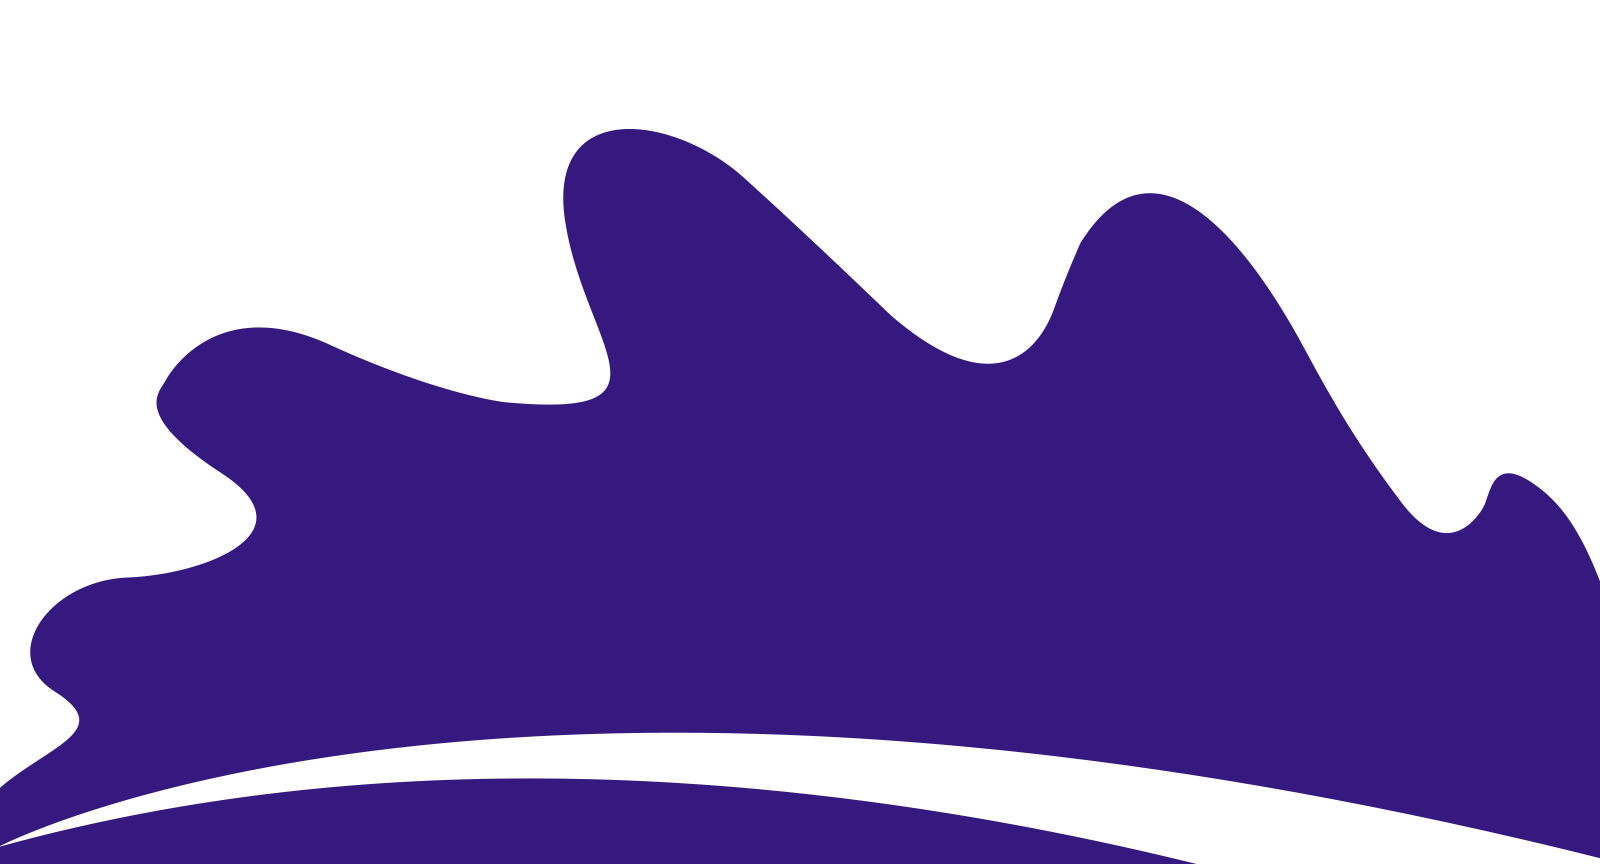
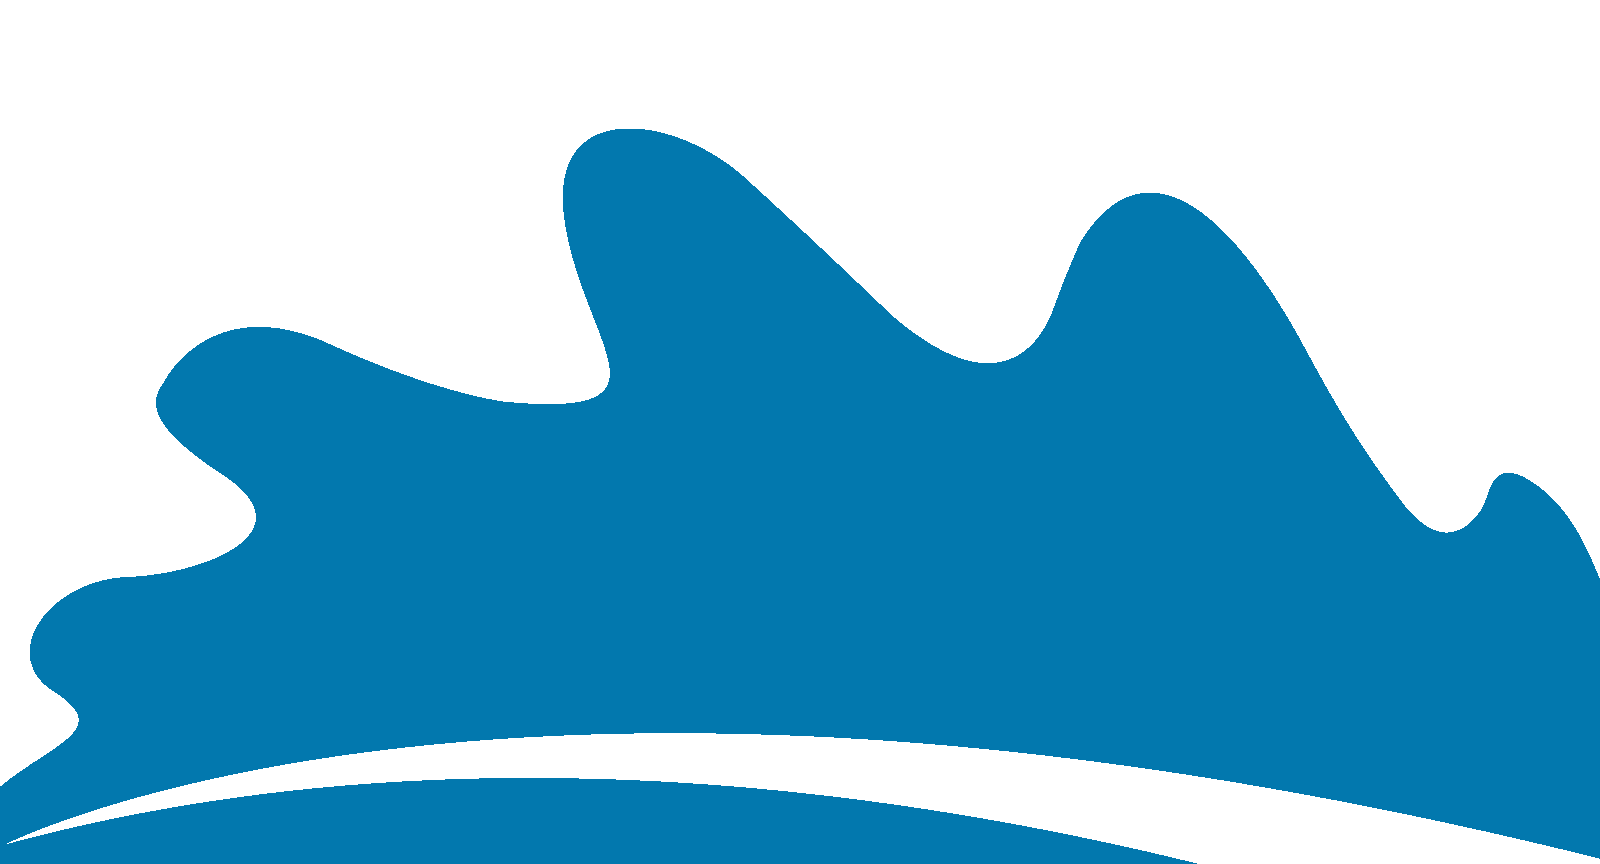
no message

diff --git a/css/style.css b/css/style.css
@@ -255,7 +255,7 @@ a:hover {
 }
 
 .bg-primary {
-  background: #41228e !important;
+  background: #51adcf !important;
 }
 
 .bg-gray {
@@ -430,7 +430,7 @@ textarea.form-control {
 }
 
 .navigation.nav-bg {
-  background-color: #41228e;
+  background-color: #0278ae;
   padding: 0px 100px;
 }
 
